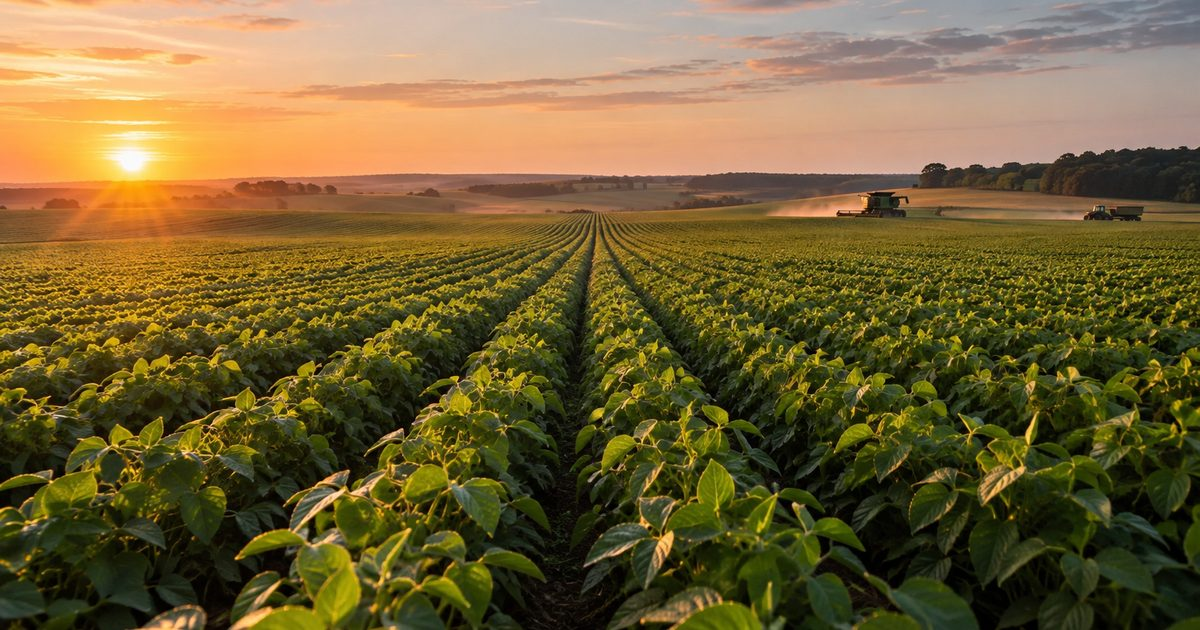
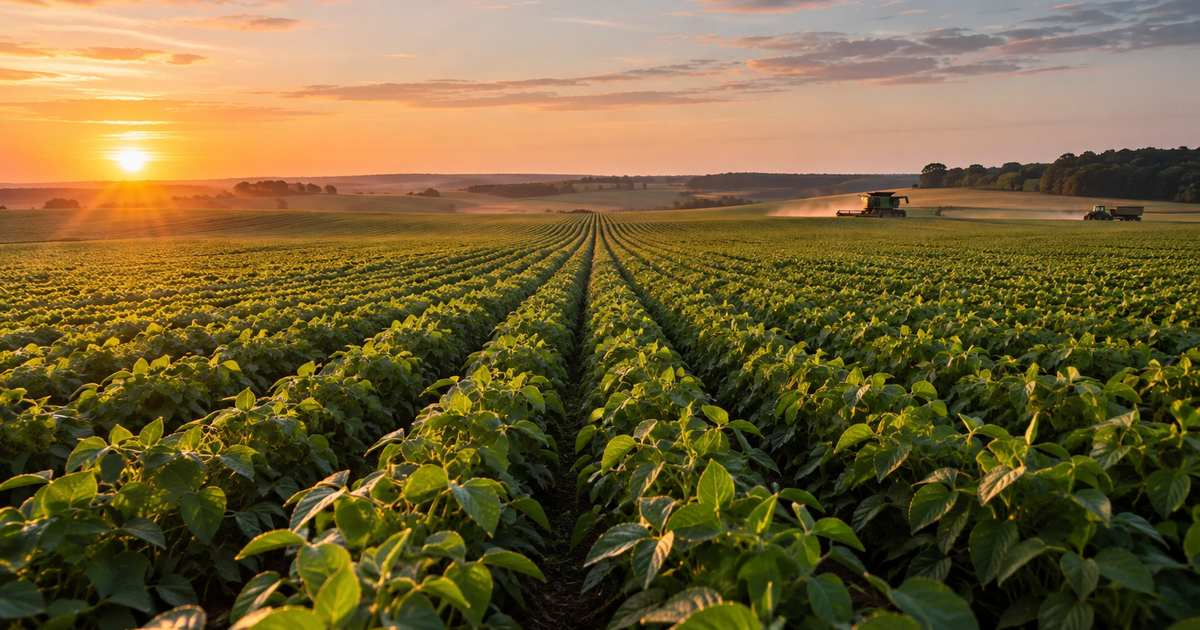
Jornal: imagens novas mais leves (miniatura ~20 KB, compartilhamento ~90 KB) (#320)
Claude-Session: https://claude.ai/code/session_01GiCAyizRiggoJeSq1epuT2

diff --git a/terminal/station/site/sw.js b/terminal/station/site/sw.js
@@ -3,9 +3,9 @@
    e usa a cópia guardada só quando está sem internet.
    Bibliotecas de CDN com versão fixa e fontes: usa a cópia guardada e atualiza por trás.
    Dados (worker, Banco Central, GitHub etc.) não passam por aqui: o site já guarda os últimos valores. */
-const CACHE = 'mm-site-v397';
+const CACHE = 'mm-site-v398';
 const CDN = 'mm-cdn-v1';
-const BASE = ['./', 'index.html', 'passe.js?v=3', 'estilo.css?v=97', 'crypto-live.js?v=2', 'forex-live.js?v=15', 'crypto-live.css?v=2', 'feriados.js?v=2', 'news-stream.js?v=1', 'app.js?v=231', 'noticias.js?v=5', 'analises.js?v=2', 'boot.js?v=2', 'boot-corpo.js?v=1', 'boot-fim.js?v=1', 'logo-vivo.js?v=1', 'ana-secoes.js?v=13', 'analise-avancada.js?v=1', 'ajustes.js?v=51', 'asset-history.js?v=11', 'asset-history.css?v=4', 'extras.js?v=29', 'asset-catalog.js?v=1', 'asset-search-core.js?v=2', 'asset-search.js?v=2', 'asset-search.css?v=2', 'cabecalho.js?v=2', 'noticias2.js?v=10', 'noticias3.js?v=1', 'noticias3.css?v=6', 'noticias4.js?v=8', 'noticias6.js?v=1', 'noticias4.css?v=6', 'noticias5.css?v=15', 'tema-creme.css?v=1', 'jornal-faixa.js?v=11', 'fontes-icones.js?v=2', 'noticias-antigas.js?v=2', 'navegacao-mobile.js?v=6', 'menu-sub.js?v=6', 'watchlists-core.js?v=4', 'watchlists-store.js?v=4', 'watchlists-ui.js?v=5', 'watchlists-ui.css?v=3', 'mesa-layout.js?v=7', 'mesa-layout.css?v=17', 'watchlist-table-core.js?v=4', 'watchlist-table.js?v=21', 'watchlist-table.css?v=11', 'conforto.css?v=3', 'terminal.css?v=4', '/vitrine/ajuda-conteudo.js?v=4', 'educacao-conteudo.js?v=7', 'educacao.js?v=6', 'plano-livre.js?v=4', 'abas-borda.js?v=7', 'assistente.js?v=16', 'assistente-mascote.js?v=25', 'robo-extras.js?v=9', 'robo-colete-integrado.webp?v=1', 'robo-cabeca.webp?v=1', 'robo-corpo.webp?v=1', 'robo-braco.webp?v=1', 'resumo-ia.js?v=2', 'temperatura.js?v=4', 'congelar.js?v=2', 'ao-vivo-solto.js?v=3', 'ao-vivo-solto.css?v=4',
+const BASE = ['./', 'index.html', 'passe.js?v=3', 'estilo.css?v=97', 'crypto-live.js?v=2', 'forex-live.js?v=15', 'crypto-live.css?v=2', 'feriados.js?v=2', 'news-stream.js?v=1', 'app.js?v=231', 'noticias.js?v=5', 'analises.js?v=2', 'boot.js?v=2', 'boot-corpo.js?v=1', 'boot-fim.js?v=1', 'logo-vivo.js?v=1', 'ana-secoes.js?v=13', 'analise-avancada.js?v=1', 'ajustes.js?v=51', 'asset-history.js?v=11', 'asset-history.css?v=4', 'extras.js?v=29', 'asset-catalog.js?v=1', 'asset-search-core.js?v=2', 'asset-search.js?v=2', 'asset-search.css?v=2', 'cabecalho.js?v=2', 'noticias2.js?v=10', 'noticias3.js?v=1', 'noticias3.css?v=6', 'noticias4.js?v=8', 'noticias6.js?v=1', 'noticias4.css?v=6', 'noticias5.css?v=15', 'tema-creme.css?v=1', 'jornal-faixa.js?v=12', 'fontes-icones.js?v=2', 'noticias-antigas.js?v=2', 'navegacao-mobile.js?v=6', 'menu-sub.js?v=6', 'watchlists-core.js?v=4', 'watchlists-store.js?v=4', 'watchlists-ui.js?v=5', 'watchlists-ui.css?v=3', 'mesa-layout.js?v=7', 'mesa-layout.css?v=17', 'watchlist-table-core.js?v=4', 'watchlist-table.js?v=21', 'watchlist-table.css?v=11', 'conforto.css?v=3', 'terminal.css?v=4', '/vitrine/ajuda-conteudo.js?v=4', 'educacao-conteudo.js?v=7', 'educacao.js?v=6', 'plano-livre.js?v=4', 'abas-borda.js?v=7', 'assistente.js?v=16', 'assistente-mascote.js?v=25', 'robo-extras.js?v=9', 'robo-colete-integrado.webp?v=1', 'robo-cabeca.webp?v=1', 'robo-corpo.webp?v=1', 'robo-braco.webp?v=1', 'resumo-ia.js?v=2', 'temperatura.js?v=4', 'congelar.js?v=2', 'ao-vivo-solto.js?v=3', 'ao-vivo-solto.css?v=4',
   'icone-mercado-macro.png', 'icone-192.png', 'mesa2.css?v=12', 'mesa-janelas.js?v=15', 'mesa2.js?v=13', 'mesa-vinculo.js?v=5', 'popup-novidades.js?v=2', 'mobile-topo.js?v=1'];
 const CDN_HOSTS = ['cdnjs.cloudflare.com', 'cdn.jsdelivr.net', 'fonts.googleapis.com', 'fonts.gstatic.com'];
 

diff --git a/terminal/station/site/jornal-faixa.js b/terminal/station/site/jornal-faixa.js
@@ -46,7 +46,7 @@
     caixa.innerHTML = '<header><b><i class="fas fa-newspaper" aria-hidden="true"></i> Jornal de hoje</b><span class="jh-sub">Os principais movimentos do mercado, explicados</span><a href="/jornal" target="_blank" rel="noopener">Ver o Jornal <span aria-hidden="true">→</span></a></header>'
       + '<div class="jh-lista">' + itens.map(function (m) {
         return '<a class="jh-it" href="/jornal/' + encodeURIComponent(m.slug) + '?de=terminal" target="_blank" rel="noopener">'
-          + '<img class="jh-img" src="/jornal-img/' + imagemDe(m, usadas) + '.webp?v=1" alt="" width="360" height="480" loading="lazy" decoding="async">'
+          + '<img class="jh-img" src="/jornal-img/' + imagemDe(m, usadas) + '.webp?v=2" alt="" width="360" height="480" loading="lazy" decoding="async">'
           + '<div class="jh-tx"><small>' + esc(m.tipo) + ' · ' + esc(hora(m.publicado)) + '</small><strong>' + esc(m.titulo) + '</strong><span class="jh-lf">' + esc(m.linha_fina) + '</span>'
           + '<em>Ler matéria →</em></div></a>';
       }).join('') + '</div>';

diff --git a/terminal/station/site/index.html b/terminal/station/site/index.html
@@ -813,7 +813,7 @@
 <script src="noticias3.js?v=1"></script>
 <script src="noticias4.js?v=8"></script>
 <script src="noticias6.js?v=1"></script>
-<script src="jornal-faixa.js?v=11"></script>
+<script src="jornal-faixa.js?v=12"></script>
 <script src="fontes-icones.js?v=2"></script>
 <script src="noticias-antigas.js?v=2"></script>
 <script src="popup-novidades.js?v=2" defer></script>
